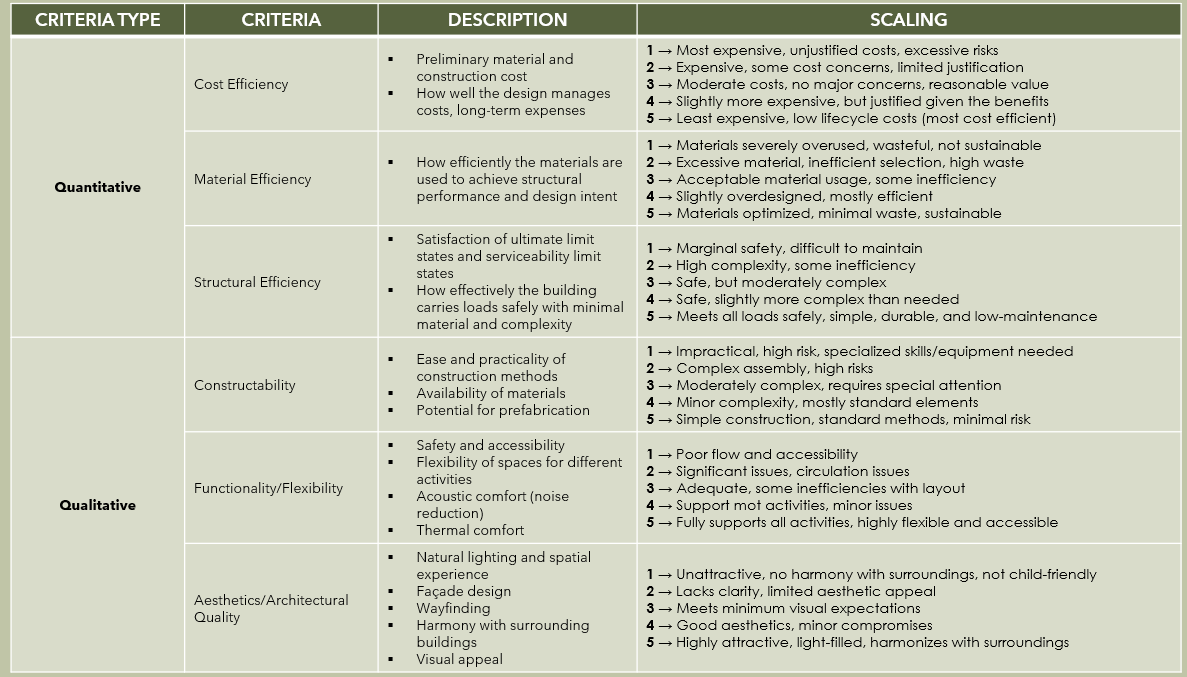
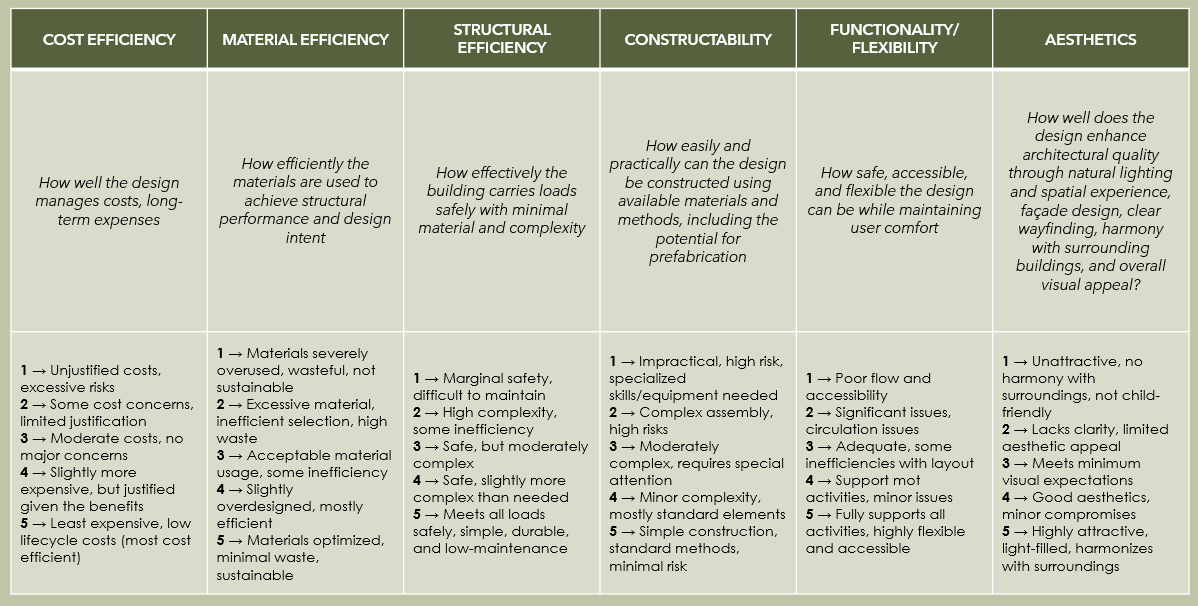
updating GUI layout

Changed region(s): [[0.0, 0.0, 0.9975, 1.0]]

diff --git a/decision_matrix.py b/decision_matrix.py
@@ -14,16 +14,13 @@ class DecisionMatrix:
 
         # Creating the GUI
         self.root.title('Project 12 - Decision Matrix Generator')
-        self.root.state('zoomed')
+        #self.root.state('zoomed')
+        self.root.geometry('900x750')
         self.root.configure(bg='#C0C5A7')
 
         # Title and logo
-    
-        self.title = tk.Label(root, text='Decision Matrix', font=('Century Gothic', 20, 'bold'), bg='#C0C5A7', fg='#56623E', width=30)
-        self.title.grid(row=0, column=1, pady=(0,10))
-
-        logo = Image.open('fdk_logo.png')
-        logo = logo.resize((125,75))
+        logo = Image.open('title.png')
+        logo = logo.resize((300,90))
 
         logo = ImageTk.PhotoImage(logo)
         logo_show = tk.Label(root, image=logo, bg='#C0C5A7')
@@ -32,21 +29,21 @@ class DecisionMatrix:
 
         # Criteria description
         desc = Image.open('criteria.png')
-        desc = desc.resize((700,400))
+        desc = desc.resize((800,400))
 
         desc = ImageTk.PhotoImage(desc)
         desc_show = tk.Label(root, image=desc, bg='#C0C5A7')
         desc_show.image = desc
-        desc_show.grid(row=1, column=0, padx=2, pady=2)
+        desc_show.grid(row=3, column=0, padx=2, pady=2)
     
 
         # Criteria and alternatives
-        self.criteria = ['Cost & Material Efficiency', 'Constructability', 'Structural Efficiency', 'Functionality/Flexibility', 'Aesthetics']
+        self.criteria = ['Cost Efficiency', 'Material Efficiency', 'Structural Efficiency', 'Constructability', 'Functionality/Flexibility', 'Aesthetics']
         self.alternatives = ['Alternative 1', 'Alternative 2']
 
         # Creating a frame for the table
         self.table_frame = tk.Frame(root, bg='#C0C5A7', bd=5, relief = 'raised')
-        self.table_frame.grid(row=1, column=1, pady=10, padx=10)
+        self.table_frame.grid(row=1, column=0, pady=10, padx=10)
 
         # Storage for scores and weights
         self.score_entries = {}
@@ -58,29 +55,29 @@ class DecisionMatrix:
 
         for j, c in enumerate(self.criteria):
             criterion_name = tk.Label(self.table_frame, text=c, font=('Century Gothic', 10, 'bold'), bg='#C0C5A7', fg='#56623E')
-            criterion_name.grid(row=0,column=j+1, padx=2, pady=2)
+            criterion_name.grid(row=0,column=j+1, padx=5, pady=5)
 
             e = tk.Entry(self.table_frame, width=5)
-            e.grid(row=1, column=j+1, padx=2, pady=2)
+            e.grid(row=1, column=j+1, padx=5, pady=5)
             e.insert(0, '1')
             self.weight_entries[c] = e
 #
             weight_label = tk.Label(self.table_frame, text='Weight', font=('Century Gothic', 8, 'italic'),bg='#C0C5A7', fg='#56623E')
-            weight_label.grid(row=2, column=j+1, padx=2, pady=2)
+            weight_label.grid(row=2, column=j+1, padx=5, pady=5)
 
         # Alternatives and score entries
         for i, alt in enumerate(self.alternatives):
             score_label = tk.Label(self.table_frame, text=alt, font=('Century Gothic', 10, 'bold'),bg='#C0C5A7', fg='#56623E')
-            score_label.grid(row=i+3, column=0, padx=2, pady=2)
+            score_label.grid(row=i+3, column=0, padx=5, pady=5)
             for j, c in enumerate(self.criteria):
                 t = tk.Entry(self.table_frame, width=5)
-                t.grid(row=i+3, column=j+1, padx=2, pady=2)
+                t.grid(row=i+3, column=j+1, padx=5, pady=5)
                 t.insert(0, '0')
                 self.score_entries[(alt, c)] = t
 
         # Calculate button
         calc_button = tk.Button(root, text='Calculate & Plot', bg='#56623E',font=('Century Gothic', 10), command=self.calc_plot, fg='white')
-        calc_button.grid(row=7, column=1)
+        calc_button.grid(row=2, column=0, pady=5)
 
         # Result label
         self.result_label = tk.Label(root, text='', font=('Century Gothic', 10, 'bold'), bg='#C0C5A7')
